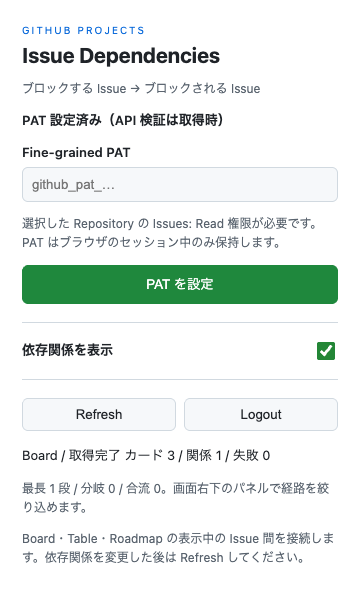
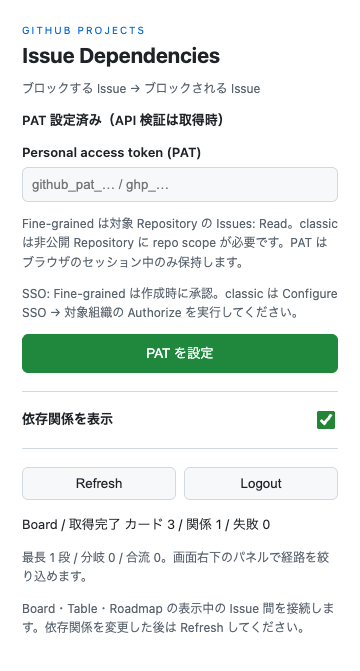
Permit SSO-authorized classic tokens for enterprise access

Changed region(s): [[0.0611, 0.0299, 0.9472, 0.9568]]

diff --git a/tests/e2e/extension.spec.ts b/tests/e2e/extension.spec.ts
@@ -115,6 +115,45 @@ test('supports observed GitHub DnD markup, virtualization and shared Table root 
  await popup.getByRole('button', { name: 'Logout', exact: true }).click(); await expect(overlay).toHaveCount(0); await cdp.detach();
 });
 
+test('accepts a classic PAT and recovers from required SSO authorization on Refresh', async () => {
+ const classicToken = 'ghp_' + 'c'.repeat(36);
+ const ssoMessage = 'SSO 承認が必要です。GitHub の Tokens (classic) → Configure SSO → 対象組織の Authorize を実行し、Refresh してください。';
+ await worker.evaluate(() => {
+   const scope = globalThis as typeof globalThis & { classicFixtureMode: string; classicFixtureAuthorizations: (string | null)[] };
+   scope.classicFixtureMode = 'sso-required'; scope.classicFixtureAuthorizations = [];
+   scope.fetch = async (input, init) => {
+     const url = new URL(String(input));
+     if (url.origin !== 'https://api.github.com' || init?.method !== 'GET') throw new Error('unexpected network operation');
+     scope.classicFixtureAuthorizations.push(new Headers(init.headers).get('Authorization'));
+     if (scope.classicFixtureMode === 'sso-required') return new Response('{}', { status: 403, headers: { 'X-GitHub-SSO': 'required; url=https://github.com/orgs/acme/sso?authorization_request=fixture' } });
+     const dependencies = url.pathname.includes('/api/') ? [{ number: 1, html_url: 'https://github.com/acme/app/issues/1' }] : [];
+     return new Response(JSON.stringify(dependencies), { status: 200 });
+   };
+ });
+ await expect(popup.locator('#enabled')).toBeDisabled();
+ await popup.locator('#token').fill(classicToken); await popup.getByRole('button', { name: 'PAT を設定' }).click();
+ await expect(popup.locator('#auth')).toContainText('PAT 設定済み');
+ expect(await worker.evaluate(() => chrome.storage.session.get('token'))).toEqual({ token: classicToken });
+ await popup.locator('#enabled').check();
+ await expect.poll(async () => { await page.bringToFront(); return popup.locator('#errors').innerText(); }).toBe(ssoMessage);
+ const failedRequests = await worker.evaluate(() => (globalThis as typeof globalThis & { classicFixtureAuthorizations: (string | null)[] }).classicFixtureAuthorizations);
+ expect(failedRequests.length).toBeGreaterThan(0);
+ expect(failedRequests.every(value => value === `Bearer ${classicToken}`)).toBe(true);
+ const cdp = await context.newCDPSession(page);
+ await expect.poll(() => paths(cdp)).toHaveLength(0);
+ await worker.evaluate(() => { (globalThis as typeof globalThis & { classicFixtureMode: string }).classicFixtureMode = 'ok'; });
+ await popup.getByRole('button', { name: 'Refresh', exact: true }).click();
+ await expect.poll(() => paths(cdp)).toHaveLength(1);
+ await expect.poll(async () => { await page.bringToFront(); return popup.locator('#board').innerText(); }).toContain('取得完了');
+ await expect(popup.locator('#errors')).toBeEmpty();
+ const recoveredRequests = await worker.evaluate(() => (globalThis as typeof globalThis & { classicFixtureAuthorizations: (string | null)[] }).classicFixtureAuthorizations);
+ expect(recoveredRequests.length).toBeGreaterThan(failedRequests.length);
+ expect(recoveredRequests.every(value => value === `Bearer ${classicToken}`)).toBe(true);
+ expect(await worker.evaluate(() => chrome.storage.session.get('token'))).toEqual({ token: classicToken });
+ await popup.getByRole('button', { name: 'Logout', exact: true }).click();
+ await expect(page.locator('#github-dependency-visualizer-overlay')).toHaveCount(0); await cdp.detach();
+});
+
 test('uses browser native Fetch through the client without Illegal invocation', async () => {
  await worker.evaluate(() => {
    const scope = globalThis as typeof globalThis & { nativeFixtureFetch: typeof fetch; nativeFixtureCalls: number };

diff --git a/tests/api.test.ts b/tests/api.test.ts
@@ -1,6 +1,7 @@
 import { describe, it, expect, vi } from 'vitest';
 import { GitHubApi } from '../src/background/github-api';
 import { DependencyRepository } from '../src/background/dependency-repository';
+import { safeError } from '../src/shared/errors';
 const issue = { owner: 'acme', repo: 'app', number: 2 };
 const row = { html_url: 'https://github.com/acme/api/issues/1', number: 1 };
 const auth = { getToken: async () => 'secret-fixture-token' };
@@ -25,6 +26,24 @@ describe('fixed read-only GitHub API', () => {
  it('returns an empty list for no dependencies', async () => { expect(await client(vi.fn().mockResolvedValue(response([]))).blockedBy(issue)).toEqual([]); });
  it.each([[401, 'AUTH_INVALID'], [403, 'FORBIDDEN'], [404, 'NOT_FOUND'], [429, 'RATE_LIMIT'], [500, 'API']])('handles HTTP %i distinctly', async (status, code) => {
    await expect(client(vi.fn().mockResolvedValue(response({}, status as number))).blockedBy(issue)).rejects.toMatchObject({ code });
+ });
+ it('reports SSO authorization without exposing response data and permits recovery', async () => {
+   const fetcher = vi.fn()
+     .mockResolvedValueOnce(response({ message: 'private organization details' }, 403, { 'X-GitHub-SSO': 'required; url=https://github.com/orgs/acme/sso?authorization_request=private' }))
+     .mockResolvedValueOnce(response([]));
+   const api = client(fetcher);
+   expect(await api.blockedBy(issue).catch(safeError)).toEqual({ code: 'SSO_REQUIRED' });
+   expect(await api.blockedBy(issue)).toEqual([]);
+ });
+ it.each(['partial-results; organizations=123', 'not-required', ''])('does not treat other SSO header values as required authorization', header => {
+   return expect(client(vi.fn().mockResolvedValue(response({}, 403, { 'X-GitHub-SSO': header }))).blockedBy(issue)).rejects.toMatchObject({ code: 'FORBIDDEN' });
+ });
+ it('honors rate limiting when an SSO header is also present', async () => {
+   const fetcher = vi.fn().mockResolvedValue(response({}, 403, { 'X-GitHub-SSO': 'required; url=https://github.com/orgs/acme/sso', 'retry-after': '120' }));
+   const api = client(fetcher, () => 1000);
+   await expect(api.blockedBy(issue)).rejects.toMatchObject({ code: 'RATE_LIMIT', retryAt: 121000 });
+   await expect(api.blockedBy(issue)).rejects.toMatchObject({ code: 'RATE_LIMIT' });
+   expect(fetcher).toHaveBeenCalledTimes(1);
  });
  it('paginates without following arbitrary links', async () => {
    const next = 'https://api.github.com/repos/acme/app/issues/2/dependencies/blocked_by?per_page=100&page=2';

diff --git a/src/shared/errors.ts b/src/shared/errors.ts
@@ -1,4 +1,4 @@
-export type ErrorCode = 'AUTH_MISSING' | 'AUTH_INVALID' | 'FORBIDDEN' | 'NOT_FOUND' | 'RATE_LIMIT' | 'TIMEOUT' | 'NETWORK' | 'SCHEMA' | 'API' | 'MESSAGE' | 'STALE';
+export type ErrorCode = 'AUTH_MISSING' | 'AUTH_INVALID' | 'SSO_REQUIRED' | 'FORBIDDEN' | 'NOT_FOUND' | 'RATE_LIMIT' | 'TIMEOUT' | 'NETWORK' | 'SCHEMA' | 'API' | 'MESSAGE' | 'STALE';
 export interface PublicError { code: ErrorCode; retryAt?: number }
 export class AppError extends Error {
   constructor(public readonly code: ErrorCode, public readonly retryAt?: number) { super(code); }
@@ -7,10 +7,11 @@ export function safeError(error: unknown): PublicError {
   return error instanceof AppError ? { code: error.code, ...(error.retryAt ? { retryAt: error.retryAt } : {}) } : { code: 'API' };
 }
 export const errorText: Record<ErrorCode, string> = {
-  AUTH_MISSING: 'PAT 未設定です。期限を設定した Fine-grained PAT を入力してください。',
+  AUTH_MISSING: 'PAT 未設定です。期限を設定した Fine-grained または classic PAT を入力してください。',
   AUTH_INVALID: 'PAT が無効または期限切れです。新しい PAT を設定してください。',
-  FORBIDDEN: 'アクセスできません。Issues: Read、対象 Repository、組織の承認を確認してください。',
-  NOT_FOUND: 'Issue を取得できません。削除・移動、PAT の Repository 選択や組織の承認を確認してください。',
+  SSO_REQUIRED: 'SSO 承認が必要です。GitHub の Tokens (classic) → Configure SSO → 対象組織の Authorize を実行し、Refresh してください。',
+  FORBIDDEN: 'アクセスできません。Fine-grained の Issues: Read と対象 Repository・組織の承認、または classic の repo scope・SSO 承認と組織の PAT ポリシーを確認してください。',
+  NOT_FOUND: 'Issue を取得できません。削除・移動、PAT の対象 Repository・権限・組織の承認・SSO 承認を確認してください。',
   RATE_LIMIT: 'API の利用制限です。表示された時刻以降に Refresh してください。',
   TIMEOUT: 'API がタイムアウトしました。接続を確認して Refresh してください。',
   NETWORK: 'GitHub API に接続できません。接続を確認して Refresh してください。',

diff --git a/src/popup/index.html b/src/popup/index.html
@@ -3,7 +3,7 @@
 <body><main>
 <header><span class="eyebrow">GITHUB PROJECTS</span><h1>Issue Dependencies</h1><p>ブロックする Issue → ブロックされる Issue</p></header>
 <p id="auth" role="status"></p>
-<form id="token-form"><label for="token">Fine-grained PAT</label><input id="token" type="password" autocomplete="off" spellcheck="false" placeholder="github_pat_…" required><p class="hint">選択した Repository の Issues: Read 権限が必要です。PAT はブラウザのセッション中のみ保持します。</p><button type="submit">PAT を設定</button></form>
+<form id="token-form"><label for="token">Personal access token (PAT)</label><input id="token" type="password" autocomplete="off" spellcheck="false" placeholder="github_pat_… / ghp_…" aria-describedby="token-help token-sso" required><p id="token-help" class="hint">Fine-grained は対象 Repository の Issues: Read。classic は非公開 Repository に repo scope が必要です。PAT はブラウザのセッション中のみ保持します。</p><p id="token-sso" class="hint">SSO: Fine-grained は作成時に承認。classic は Configure SSO → 対象組織の Authorize を実行してください。</p><button type="submit">PAT を設定</button></form>
 <label class="toggle"><span>依存関係を表示</span><input id="enabled" type="checkbox" role="switch"></label>
 <div class="actions"><button id="refresh" type="button">Refresh</button><button id="logout" type="button">Logout</button></div>
 <p id="board" role="status" aria-live="polite"></p><ul id="errors" aria-live="polite"></ul>

diff --git a/src/shared/messages.ts b/src/shared/messages.ts
@@ -13,12 +13,15 @@ export interface PageStatus {
   analysis?: { maxDepth: number | null; branches: number; merges: number; cycleNodes: number };
 }
 function exactKeys(o: Record<string, unknown>, keys: string[]): boolean { return Object.keys(o).sort().join(',') === keys.sort().join(','); }
+export function isPersonalAccessToken(value: unknown): value is string {
+  return typeof value === 'string' && value === value.trim() && /^(?:github_pat_[A-Za-z0-9_]{20,250}|ghp_[A-Za-z0-9]{36})$/.test(value);
+}
 export function parseRequest(value: unknown): Request | null {
   if (!value || typeof value !== 'object') return null;
   const m = value as Record<string, unknown>;
   if (['GET_STATE', 'LOGOUT', 'REFRESH'].includes(String(m.type)) && exactKeys(m, ['type'])) return m as Request;
   if (m.type === 'SET_ENABLED' && typeof m.enabled === 'boolean' && exactKeys(m, ['type', 'enabled'])) return m as Request;
-  if (m.type === 'SET_TOKEN' && typeof m.token === 'string' && /^github_pat_[A-Za-z0-9_]{20,250}$/.test(m.token) && exactKeys(m, ['type', 'token'])) return m as Request;
+  if (m.type === 'SET_TOKEN' && isPersonalAccessToken(m.token) && exactKeys(m, ['type', 'token'])) return m as Request;
   if (m.type === 'DEPENDENCIES' && Array.isArray(m.issues) && m.issues.length <= MAX_ISSUES && m.issues.every(isIssue) && exactKeys(m, ['type', 'issues'])) return m as Request;
   return null;
 }

diff --git a/tests/security.test.ts b/tests/security.test.ts
@@ -5,6 +5,18 @@ import { readFileSync } from 'node:fs';
 const popup = 'chrome-extension://extension-id/src/popup/index.html';
 const content = { id: 'extension-id', url: 'https://github.com/orgs/acme/projects/1', tab: { id: 1 }, frameId: 0 } as chrome.runtime.MessageSender;
 describe('message trust boundary', () => {
+ it.each(['github_pat_' + 'x'.repeat(20), 'github_pat_' + 'x'.repeat(250), 'ghp_' + 'x'.repeat(36)])('accepts supported PAT formats through the trusted message boundary', token => {
+   expect(parseRequest({ type: 'SET_TOKEN', token })).toEqual({ type: 'SET_TOKEN', token });
+   expect(parseRequest({ type: 'SET_TOKEN', token, extra: true })).toBeNull();
+ });
+ it.each([
+   'github_pat_' + 'x'.repeat(19), 'github_pat_' + 'x'.repeat(251),
+   'ghp_' + 'x'.repeat(35), 'ghp_' + 'x'.repeat(37), 'ghp_' + '_'.repeat(36),
+   'gho_' + 'x'.repeat(36), 'ghs_' + 'x'.repeat(36),
+   ' ghp_' + 'x'.repeat(36), 'ghp_' + 'x'.repeat(36) + '\n', null
+ ])('rejects malformed tokens and other credential types', token => {
+   expect(parseRequest({ type: 'SET_TOKEN', token })).toBeNull();
+ });
  it('accepts only exact fixed operations and validated IDs', () => {
    expect(parseRequest({ type: 'FETCH', url: 'https://evil.test' })).toBeNull();
    expect(parseRequest({ type: 'GET_STATE', token: 'extra' })).toBeNull();

diff --git a/src/popup/index.ts b/src/popup/index.ts
@@ -1,5 +1,5 @@
 import './style.css';
-import { send, type Settings, type PageStatus } from '../shared/messages';
+import { isPersonalAccessToken, send, type Settings, type PageStatus } from '../shared/messages';
 import { errorText, type PublicError } from '../shared/errors';
 const input = document.querySelector<HTMLInputElement>('#token')!;
 const enabled = document.querySelector<HTMLInputElement>('#enabled')!;
@@ -47,7 +47,7 @@ async function action(request: Parameters<typeof send>[0]): Promise<void> {
 document.querySelector('#token-form')!.addEventListener('submit', event => {
   event.preventDefault();
   const token = input.value.trim(); input.value = '';
-  if (!/^github_pat_[A-Za-z0-9_]{20,250}$/.test(token)) { actionError = { code: 'AUTH_INVALID' }; void update(); return; }
+  if (!isPersonalAccessToken(token)) { actionError = { code: 'AUTH_INVALID' }; void update(); return; }
   void action({ type: 'SET_TOKEN', token });
 });
 enabled.addEventListener('change', () => { void action({ type: 'SET_ENABLED', enabled: enabled.checked }); });

diff --git a/tests/background.test.ts b/tests/background.test.ts
@@ -19,6 +19,13 @@ beforeEach(async () => {
 });
 afterEach(() => { vi.useRealTimers(); vi.unstubAllGlobals(); });
 describe('background settings do not depend on sleeping tabs', () => {
+ it('stores classic PATs in the session and returns only authentication state', async () => {
+   const token = 'ghp_' + 'x'.repeat(36);
+   expect(await request({ type: 'SET_TOKEN', token })).toEqual({ ok: true, data: { enabled: false, authenticated: true } });
+   expect(session).toEqual({ token });
+   expect(local).toEqual({});
+   expect(await request({ type: 'GET_STATE' })).toEqual({ ok: true, data: { enabled: false, authenticated: true } });
+ });
  it('skips frozen and discarded tabs and keeps settings readable', async () => {
    tabs = [{ id: 1 }, { id: 2, frozen: true }, { id: 3, discarded: true }];
    expect(await request({ type: 'SET_TOKEN', token: 'github_pat_' + 'x'.repeat(50) })).toEqual({ ok: true, data: { enabled: false, authenticated: true } });

diff --git a/src/background/github-api.ts b/src/background/github-api.ts
@@ -51,6 +51,7 @@ export class GitHubApi {
             await this.cooldownStore?.write(this.cooldown);
             throw new AppError('RATE_LIMIT', this.cooldown);
           }
+          if (response.status === 403 && /^\s*required\s*(?:;|$)/i.test(response.headers.get('x-github-sso') ?? '')) throw new AppError('SSO_REQUIRED');
           throw new AppError('FORBIDDEN');
         }
         if (response.status === 404) throw new AppError('NOT_FOUND');

diff --git a/docs/verification.md b/docs/verification.md
@@ -1,5 +1,18 @@
 # 検証結果と制限
 
+## 0.3.1（2026-10-19）
+
+| 検証 | 結果 |
+| --- | --- |
+| TypeScript strict / 本番ビルド | 成功 |
+| 単体・DOM・描画・Security・Lifecycle | 9ファイル、121テスト成功 |
+| Chromium 拡張統合 | 9シナリオ成功 |
+| 配布パッケージ | 0.3.1 の MV3 Manifest と実行ファイル計6件を ZIP 直下に配置、SHA-256 を生成 |
+
+Fine-grained / classic の入力形式、classic のセッション保存と API の Authorization、403 の SSO 認可要求と一般的な権限エラーの区別、Rate Limit の優先と待機期限の維持を確認しました。SSO 認可 URL と応答本文は公開エラーへ含めません。Chromium では、classic PAT の設定から SSO の案内表示、承認後を模擬した Refresh での取得復旧、Logout まで確認しました。更新した Popup の画像も確認しています。
+
+既存のローカル依存から TypeScript、Vite、Vitest、Playwright を直接起動して検証しました。実行環境は macOS arm64 / Node.js 26.12.0 です。GitHub ページと API は合成データで、実 PAT や実際の Enterprise 組織・IdP を使った SSO 認可は検証していません。
+
 ## 0.3.0（2026-10-19）
 
 | 検証 | 結果 |
